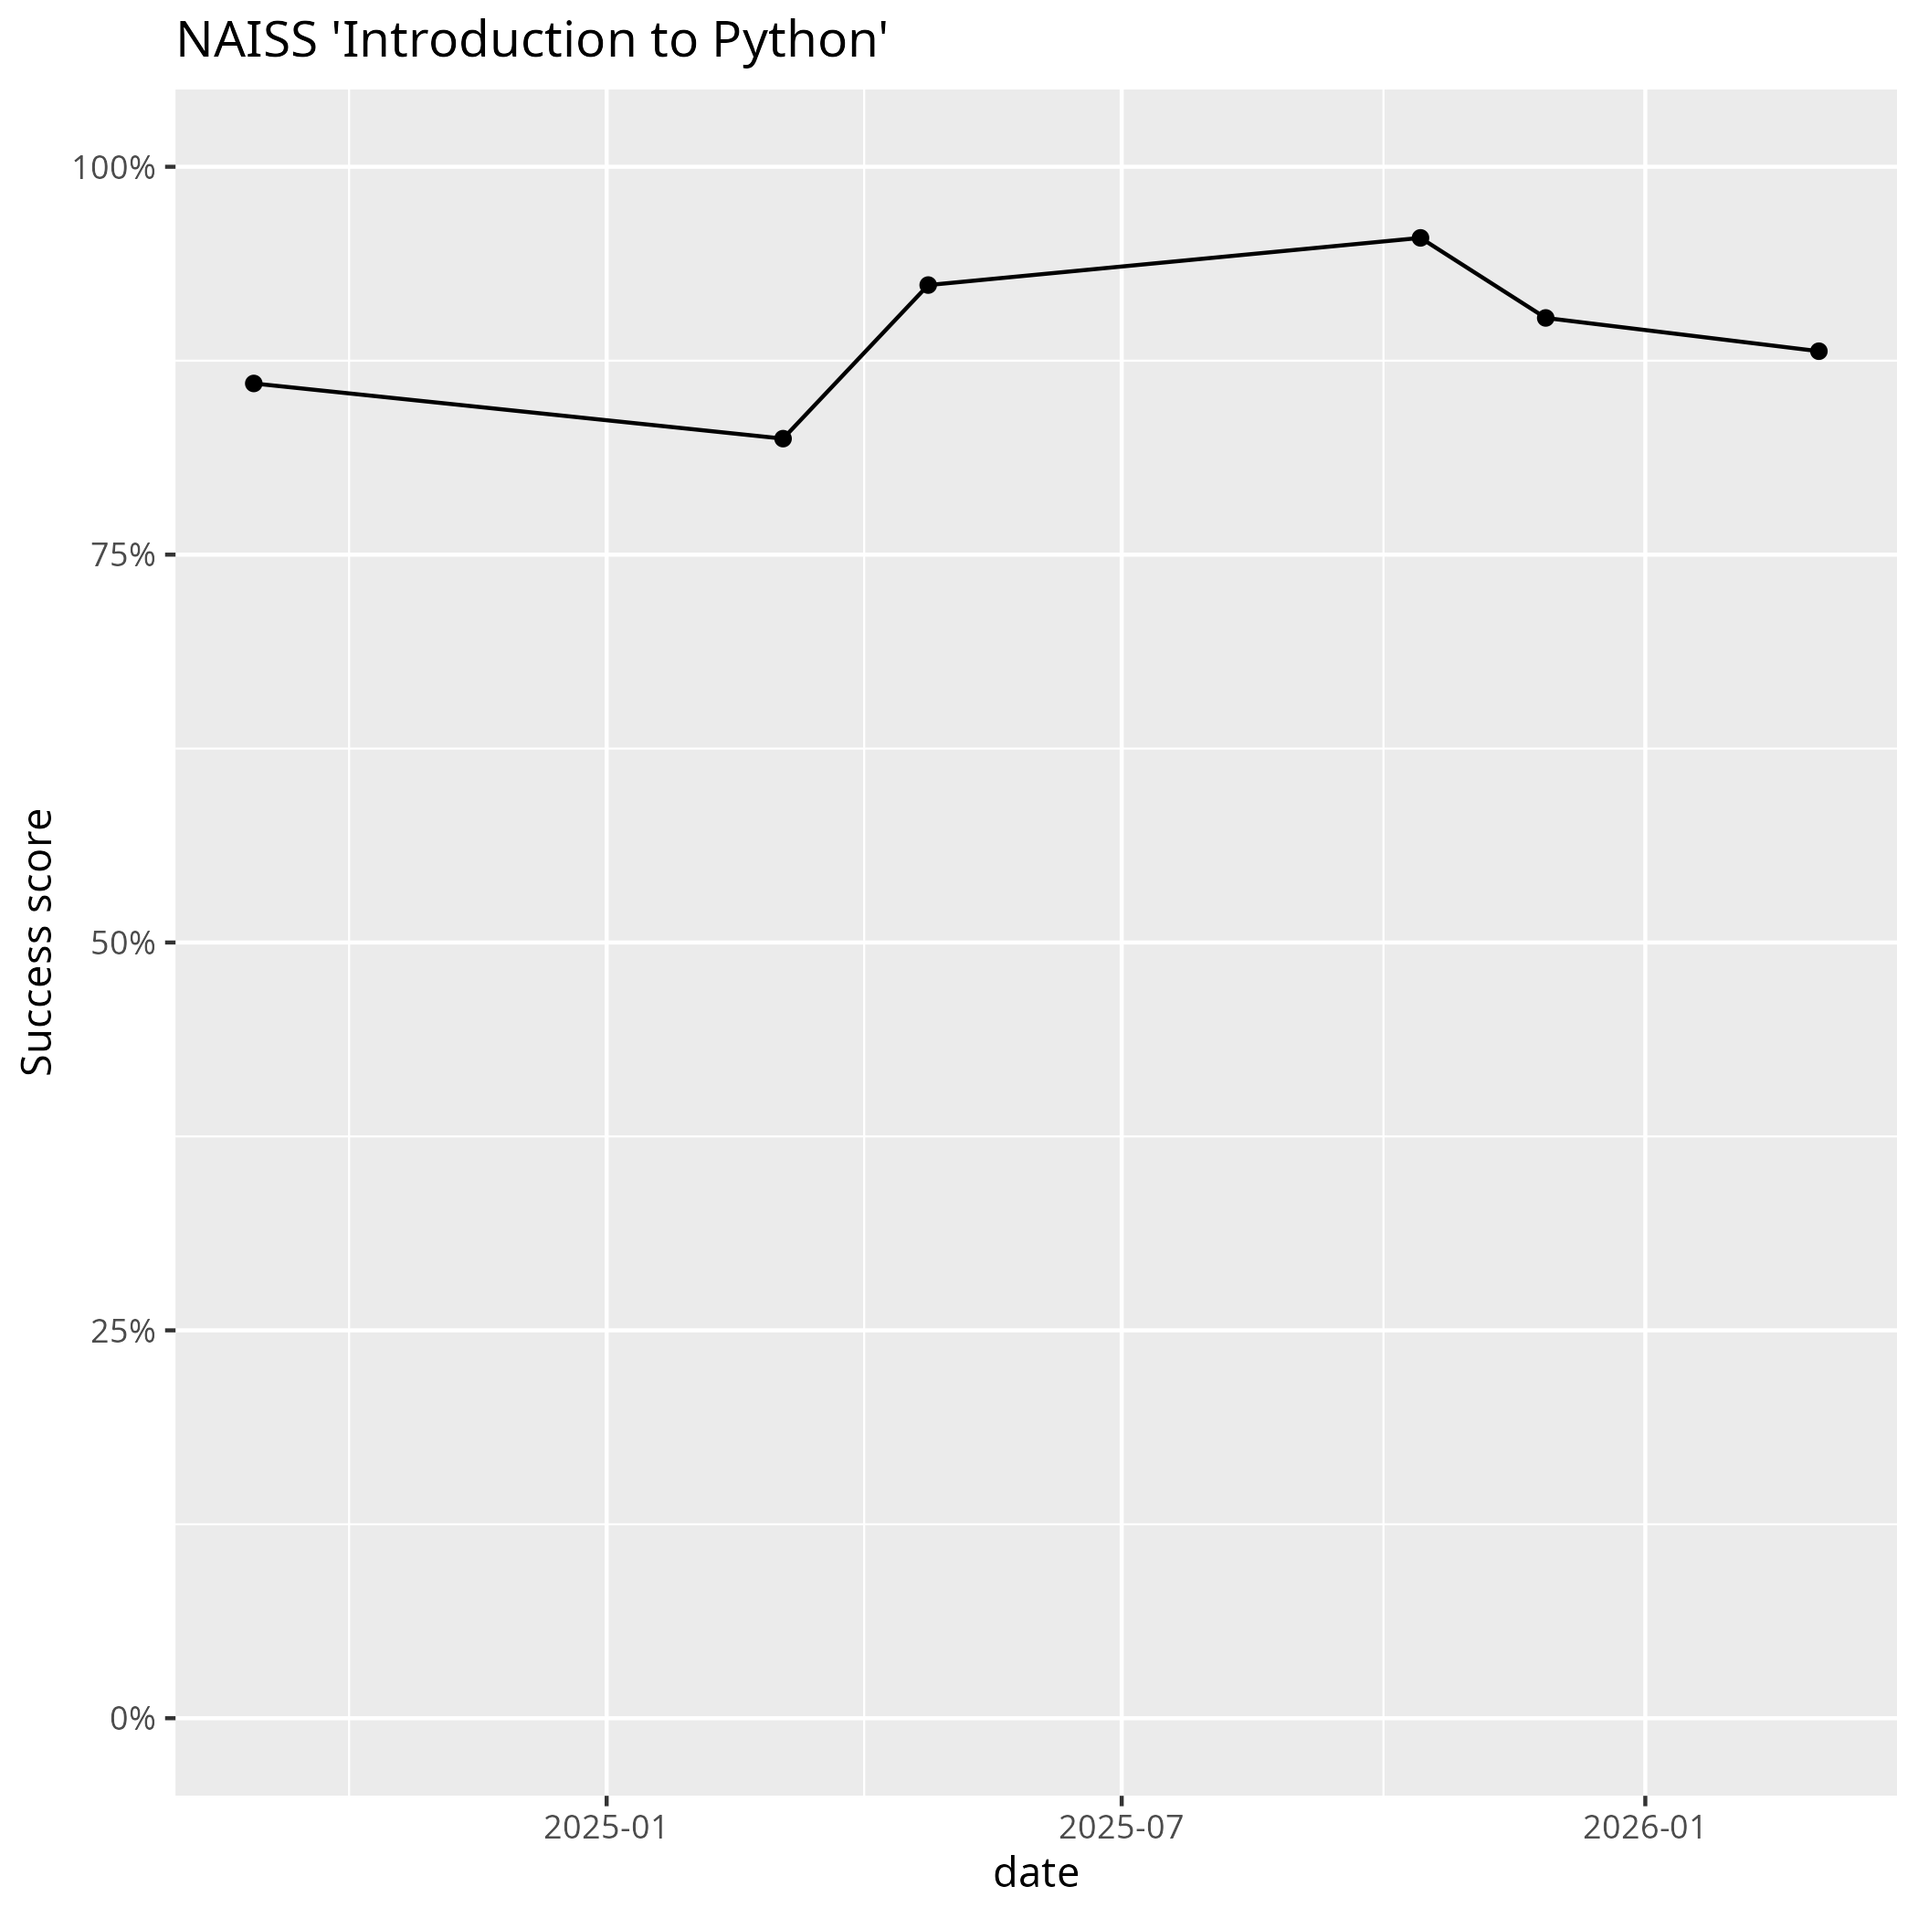
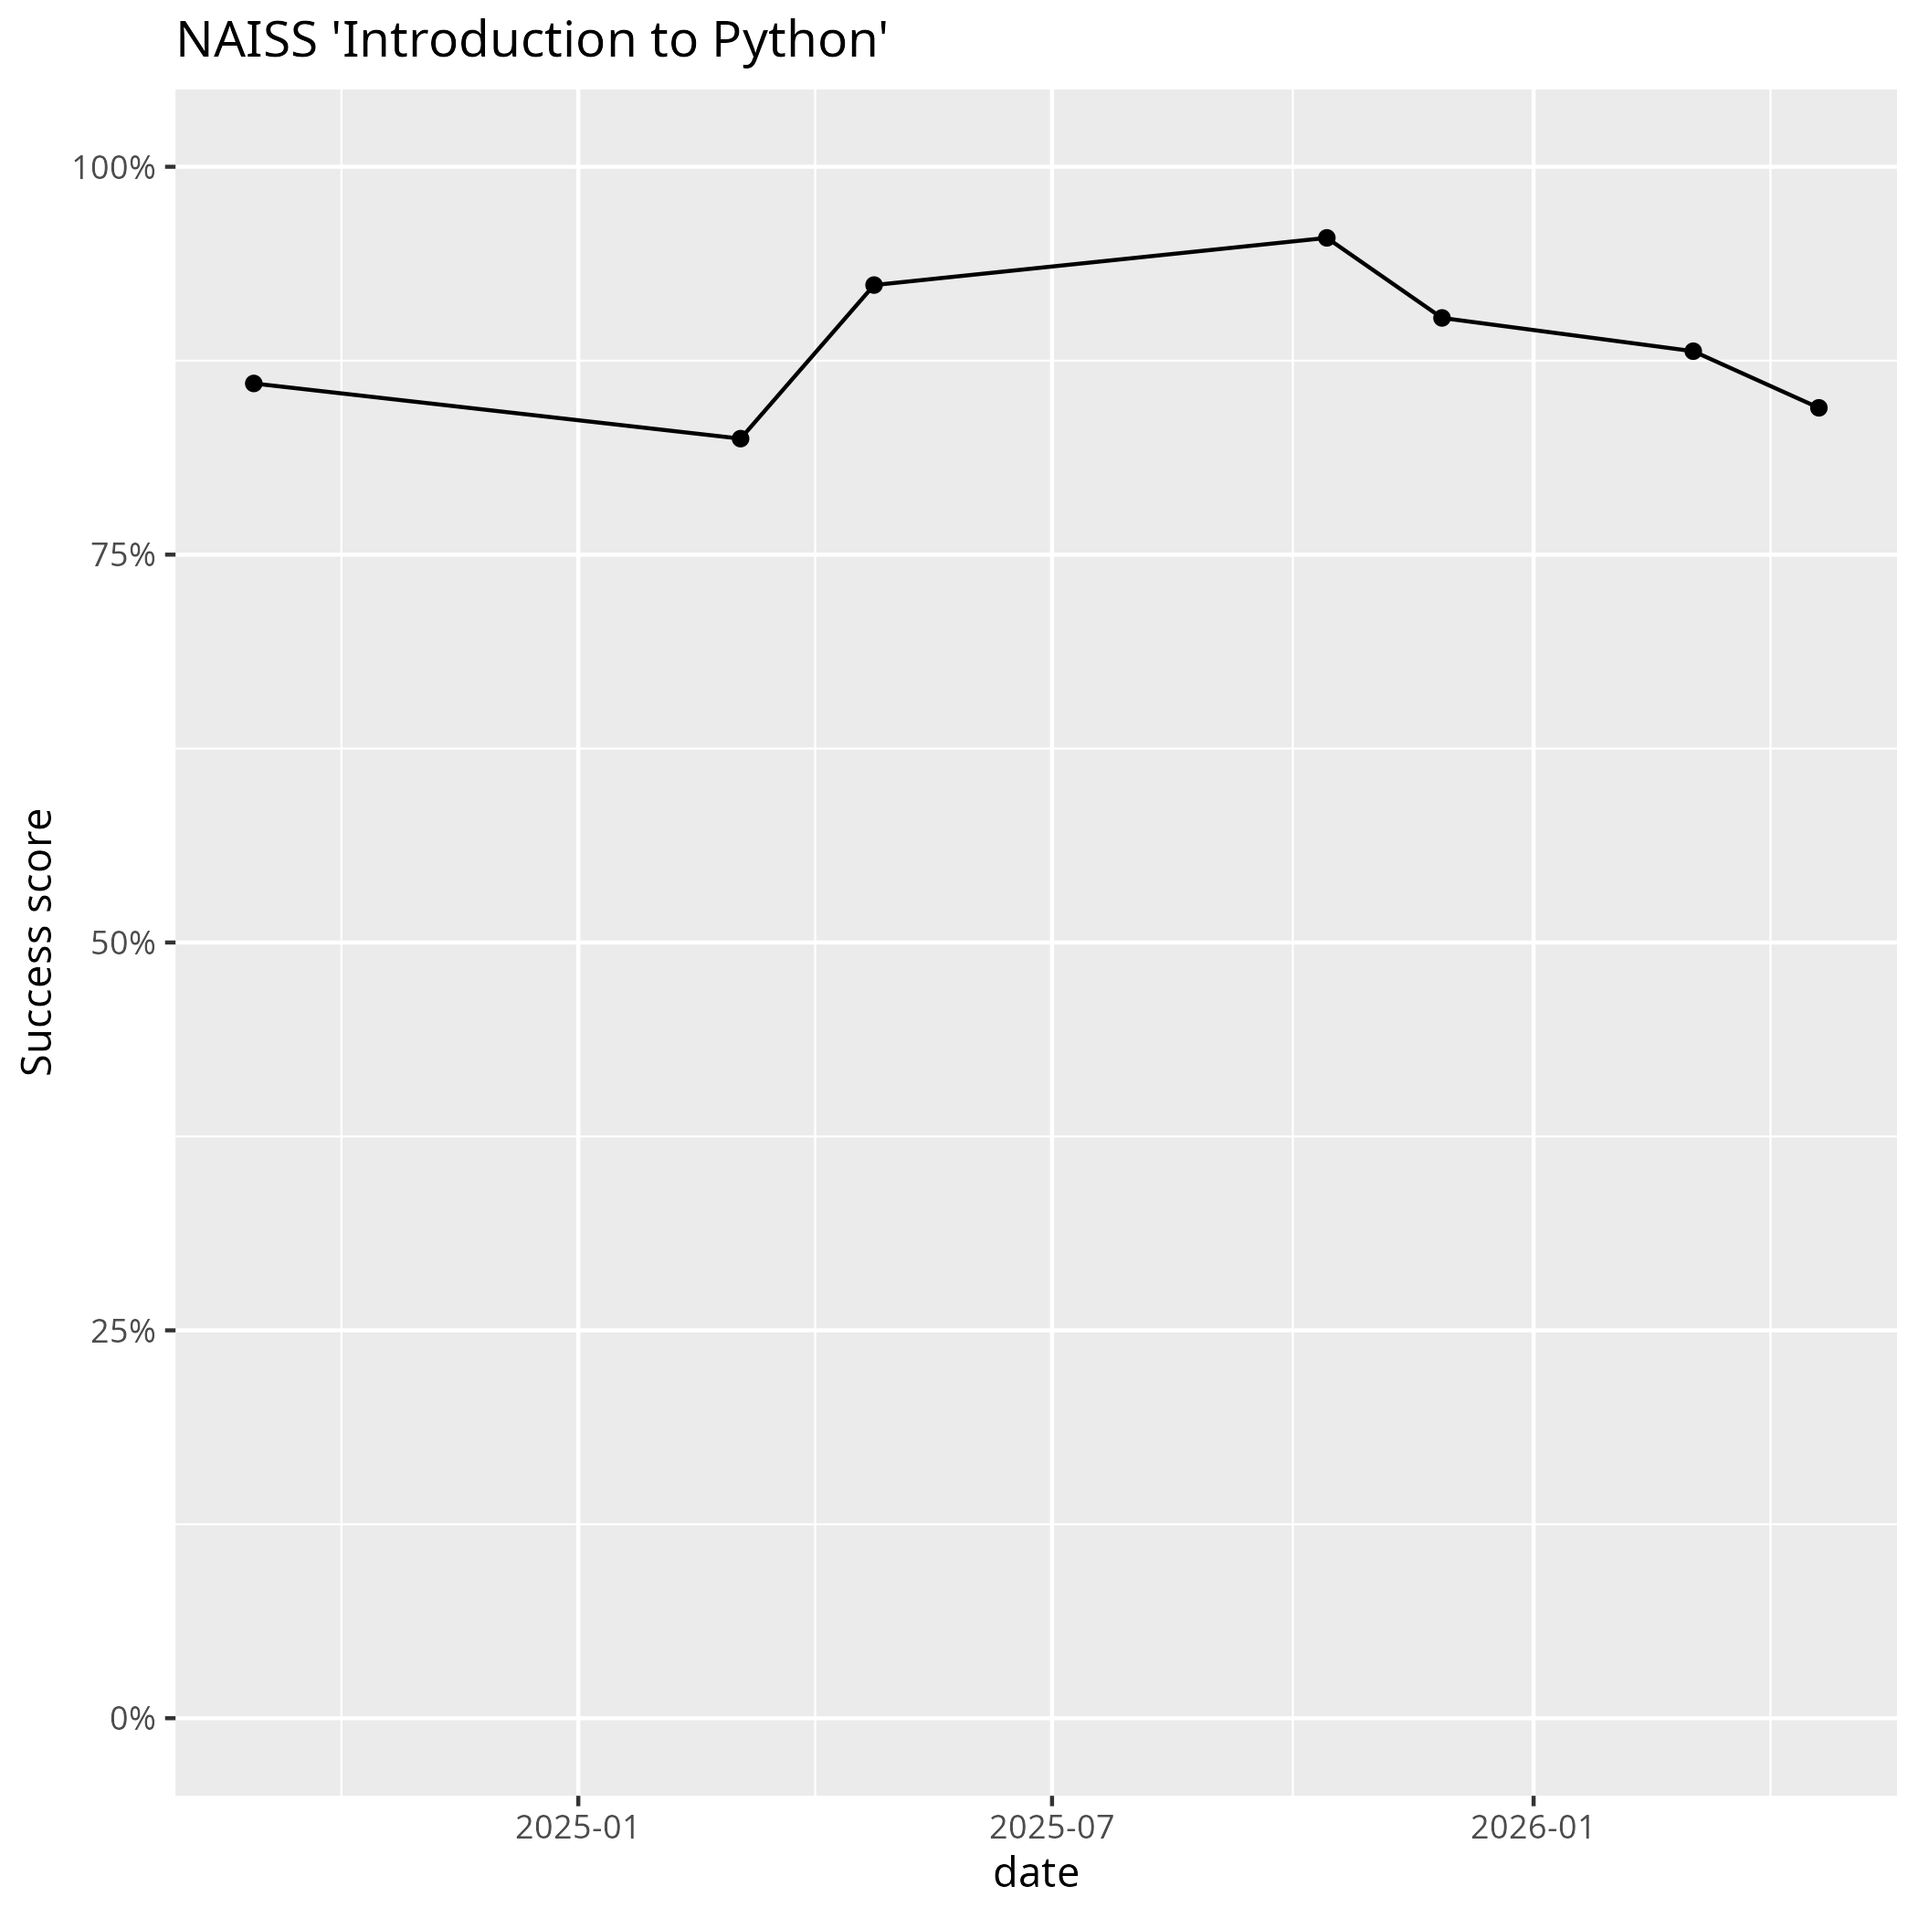
Add success score

diff --git a/docs/evaluations/README.md b/docs/evaluations/README.md
@@ -20,7 +20,7 @@ No |Date      |Evaluations                     |Success score
 5  |2025-10-14|[Evaluation](20251014/README.md)|[95%](20251014/success_score.txt)
 6  |2025-11-27|[Evaluation](20251127/README.md)|[90%](20251127/success_score.txt)
 7  |2026-03-03|[Evaluation](20260303/README.md)|[88%](20260303/success_score.txt)
-8  |2026-04-20|[Evaluation](20260420/README.md)|.
+8  |2026-04-20|[Evaluation](20260420/README.md)|[84%](20260420/success_score.txt)
 
 - The 'Success score' is the average confidence the learners
   have on each of the learning outcomes of the course
